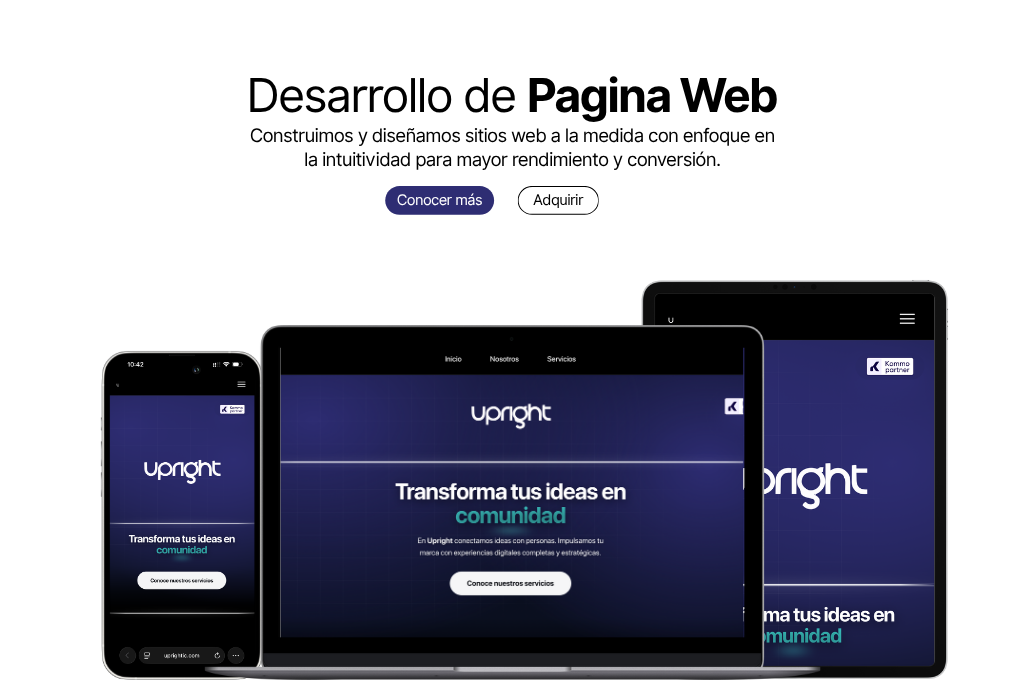
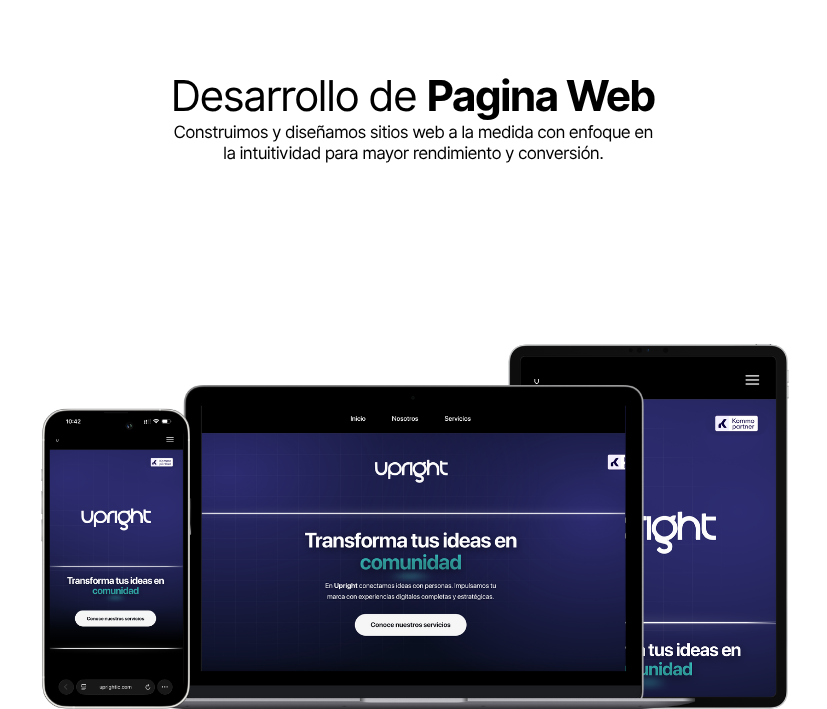
services section changes

Changed region(s): [[0.0302, 0.4015, 0.9674, 1.0], [0.2116, 0.0926, 0.8162, 0.3397], [0.5139, 0.2779, 0.5744, 0.3088]]

diff --git a/src/components/UI/OffersSection/styles.ts b/src/components/UI/OffersSection/styles.ts
@@ -22,13 +22,14 @@ export const Wrapper = styled.section`
     linear-gradient(180deg, var(--Background) 0%, var(--Background) 95%);
   color: var(--white);
   overflow: hidden;
-  padding-bottom: 20rem;
+  padding-bottom: 6rem;
 `;
 
 export const Inner = styled.div`
-  max-width: 1440px;
-  width: 90%;
+  max-width: 100%;
+  width: 100%;
   margin: 12.38rem auto 0;
+  padding: 0 0.75rem; /* outer gutter equals cards' gap */
 
   @media (max-width: 768px) {
     margin-top: 6.44rem;
@@ -69,57 +70,51 @@ export const Header = styled.header`
   }
 `;
 
-export const TextCtn = styled.div`
-  padding: 2rem;
-  width: 100%;
+export const ButtonsRow = styled.div`
+  position: absolute;
+  left: 50%;
+  top: 34%; 
+  transform: translate(-50%, -50%);
   display: flex;
-  flex-direction: column;
-  gap: 0.75rem;
-  margin-top: auto;
-  position: relative;
-  z-index: 3;
-  background: rgba(14, 1, 66, 0.72);
-  backdrop-filter: blur(12px);
-  border-top: 1px solid rgba(58, 193, 192, 0.25);
-
-  /* hidden by default (desktop) */
-  opacity: 0;
-  transform: translateY(20px);
-  transition: opacity 0.4s ease, transform 0.4s ease;
-
-  h2 {
-    font-size: 1.75rem;
-    font-weight: 500;
-    line-height: 1.6rem;
-    color: var(--white);
-  }
-
-  p {
-    color: rgba(242, 242, 242, 0.88);
-    font-size: 0.95rem;
-    font-weight: 400;
-    line-height: 1.45rem;
-  }
+  gap: 0.5rem;
+  z-index: 4;
 
   @media (max-width: 768px) {
-    /* always visible on mobile */
-    opacity: 1;
-    transform: none;
-    padding: 1.5rem;
-    h2 {
-      font-size: 1.5rem;
-    }
+    top: 36%;
   }
+`;
+
+export const ActionButton = styled.button<{ $variant: 'indigo' | 'gray' }>`
+  appearance: none;
+  border: none;
+  cursor: pointer;
+  padding: 0.8rem 1.25rem; 
+  border-radius: 999px;
+  font-size: 1rem;
+  font-weight: 600;
+  letter-spacing: 0.01em;
+  font-family: inherit; /* match site font */
+  transition: transform 0.15s ease, box-shadow 0.2s ease, opacity 0.2s ease;
+
+  color: ${({ $variant }) => ($variant === 'indigo' ? 'var(--white)' : 'var(--blue)')};
+  background: ${({ $variant }) => ($variant === 'indigo' ? 'var(--blue)' : 'var(--gray)')};
+  box-shadow: 0 10px 22px rgba(0,0,0,0.35);
+
+  &:hover { transform: translateY(-1px); opacity: 0.95; }
+  &:active { transform: translateY(0); opacity: 0.9; }
+  &:focus-visible { outline: 2px solid rgba(58,193,192,0.6); outline-offset: 2px; }
 `;
 
 export const Offers = styled.div`
   display: flex;
   align-items: stretch;
   justify-content: center;
-  gap: 2rem;
+  /* Minimal gutter between cards */
+  gap: 0.75rem;
 
   &:not(:first-child) {
-    margin-top: 2rem;
+    /* Match vertical gutter between rows */
+    margin-top: 0.75rem;
   }
 
   @media (max-width: 992px) {
@@ -132,9 +127,7 @@ export const OfferCard = styled.div`
   min-height: 26rem;
   border-radius: 0; /* remove rounded corners */
   border: 1px solid rgba(58, 193, 192, 0.18);
-  box-shadow:
-    0 18px 45px rgba(14, 1, 66, 0.45),
-    0 0 0 1px rgba(58, 193, 192, 0.05) inset;
+  box-shadow: none;
   display: flex;
   flex-direction: column;
   justify-content: flex-end;
@@ -146,23 +139,13 @@ export const OfferCard = styled.div`
       rgba(14, 1, 66, 0.6) 45%,
       rgba(10, 10, 10, 0.92) 100%
     );
-  cursor: pointer;
-  transition:
-    transform 0.35s cubic-bezier(0.22, 1, 0.36, 1),
-    box-shadow 0.35s cubic-bezier(0.22, 1, 0.36, 1),
-    border-color 0.25s ease;
+  cursor: default; /* no longer clickable */
+  transition: none; /* remove hover transition */
 
   &::before {
     content: '';
     position: absolute;
     inset: 0;
-    background: linear-gradient(
-      210deg,
-      rgba(58, 193, 192, 0.22) 0%,
-      rgba(46, 45, 115, 0.4) 40%,
-      rgba(14, 1, 66, 0.75) 80%,
-      rgba(10, 10, 10, 0.95) 100%
-    );
     z-index: 1;
   }
 
@@ -170,45 +153,19 @@ export const OfferCard = styled.div`
     content: '';
     position: absolute;
     inset: 0;
-    background:
-      radial-gradient(65% 65% at 80% 20%, rgba(58, 193, 192, 0.35), transparent 70%),
-      url(${grid_background.src}) center/cover no-repeat;
     mix-blend-mode: screen;
     opacity: 0.28;
     z-index: 2;
     transition: opacity 0.35s cubic-bezier(0.22, 1, 0.36, 1);
   }
 
-  /* hover reveal */
-  &:hover {
-    transform: translateY(-10px);
-    box-shadow:
-      0 30px 70px rgba(9, 188, 180, 0.35),
-      0 0 0 1px rgba(58, 193, 192, 0.3) inset;
-    border-color: rgba(58, 193, 192, 0.45);
-
-    &::after {
-      opacity: 0.55;
-    }
-
-    ${TextCtn} {
-      opacity: 1;
-      transform: translateY(0);
-      background: rgba(14, 1, 66, 0.85);
-      border-top-color: rgba(58, 193, 192, 0.6);
-    }
-  }
-
-  &:active {
-    transform: translateY(-6px) scale(0.995);
-  }
+  /* disable hover/active effects */
+  &:hover { transform: none; box-shadow: none; border-color: rgba(58, 193, 192, 0.18); }
+  &:active { transform: none; }
 
   &:focus-visible {
     outline: none;
-    box-shadow:
-      0 0 0 3px rgba(58, 193, 192, 0.55),
-      0 18px 45px rgba(14, 1, 66, 0.45),
-      0 0 0 1px rgba(58, 193, 192, 0.2) inset;
+    box-shadow: none;
   }
 
   @media (max-width: 768px) {
@@ -217,39 +174,9 @@ export const OfferCard = styled.div`
 `;
 
 export const CardImage = styled(Image)`
-  position: absolute !important;
-  inset: 0 !important;
-  width: 100% !important;
-  height: 100% !important;
-  object-fit: cover;
-  z-index: 0;
-`;
-
-export const PartnerBadge = styled.div`
-  position: absolute;
-  left: 50%;
-  transform: translateX(-50%);
-  display: flex;
-  align-items: center;
-  justify-content: center;
-  padding: 0.75rem 1.5rem;
-  margin: 8rem auto;
-  border-radius: 5%;
-  background: rgba(14, 1, 66, 0.75);
-  border: 1px solid var(--indigo);
-  backdrop-filter: blur(12px);
-  box-shadow: 0 18px 40px var(--blue);
-
-  img {
-    width: 240px;
-    height: auto;
-  }
-
-  @media (max-width: 768px) {
-    img {
-      width: 150px;
-    }
-  }
+  display: block;
+  height: auto;
+  width: auto;
 `;
 
 /* ---------- Modal for Offer details ---------- */

diff --git a/src/components/UI/OffersSection/index.tsx b/src/components/UI/OffersSection/index.tsx
@@ -7,9 +7,9 @@ import {
   Header,
   Offers,
   OfferCard,
-  TextCtn,
+  ButtonsRow,
+  ActionButton,
   CardImage,
-  PartnerBadge,
   ModalOverlay,
   ModalCard,
 } from './styles';
@@ -54,64 +54,49 @@ const OffersSection = () => {
           offers.slice(idx * 2, idx * 2 + 2)
         ).map((pair, index) => (
           <Offers key={`offers-row-${index}`}>
-            {pair.map((offer) => (
-              <OfferCard
-                key={offer.title}
-                role="button"
-                tabIndex={0}
-                onClick={() => {
-                  const t = offer.title.toLowerCase();
-                  if (/desarrollo/.test(t)) setOpen('web');
-                  else if (/dron/.test(t)) setOpen('drones');
-                  else if (/(google|ads|pauta)/.test(t)) setOpen('ads');
-                  else if (/automat/.test(t)) setOpen('automation');
-                  else if (/(lista|difusi[oó]n|whatsapp)/.test(t)) setOpen('broadcast');
-                  else if (/(optimización|plataformas)/.test(t)) setOpen('optimize');
-                  else if (/(comunicaci[oó]n|redes|social)/.test(t)) setOpen('communication');
-                  else if (/branding/.test(t)) setOpen('branding');
-                }}
-                onKeyDown={(e) => {
-                  if (e.key === 'Enter' || e.key === ' ') {
-                    e.preventDefault();
-                    const t = offer.title.toLowerCase();
-                    if (/desarrollo/.test(t)) setOpen('web');
-                    else if (/dron/.test(t)) setOpen('drones');
-                    else if (/(google|ads|pauta)/.test(t)) setOpen('ads');
-                    else if (/automat/.test(t)) setOpen('automation');
-                    else if (/(lista|difusi[oó]n|whatsapp)/.test(t)) setOpen('broadcast');
-                    else if (/(optimización|plataformas)/.test(t)) setOpen('optimize');
-                    else if (/(comunicaci[oó]n|redes|social)/.test(t)) setOpen('communication');
-                    else if (/branding/.test(t)) setOpen('branding');
-                  }
-                }}
-              >
-                <CardImage
-                  src={offer.illustration}
-                  alt={offer.title}
-                  fill
-                  sizes="(max-width: 768px) 100vw, (max-width: 1200px) 45vw, 580px"
-                  loading="lazy"
-                  placeholder="blur"
-                />
-                <TextCtn>
-                  <MaskText phrases={[offer.title]} tag="h2" />
-                  <p>{offer.details}</p>
-                </TextCtn>
-              </OfferCard>
-            ))}
+            {pair.map((offer) => {
+              const openForOffer = () => {
+                const t = offer.title.toLowerCase();
+                if (/desarrollo/.test(t)) setOpen('web');
+                else if (/dron/.test(t)) setOpen('drones');
+                else if (/(google|ads|pauta)/.test(t)) setOpen('ads');
+                else if (/automat/.test(t)) setOpen('automation');
+                else if (/(lista|difusi[oó]n|whatsapp)/.test(t)) setOpen('broadcast');
+                else if (/(optimización|plataformas)/.test(t)) setOpen('optimize');
+                else if (/(comunicaci[oó]n|redes|social)/.test(t)) setOpen('communication');
+                else if (/branding/.test(t)) setOpen('branding');
+              };
+
+              return (
+                <OfferCard key={offer.title}>
+                  <CardImage
+                    src={offer.illustration}
+                    alt={offer.title}
+                    loading="lazy"
+                    placeholder="blur"
+                  />
+                  <ButtonsRow>
+                    <ActionButton $variant="indigo" type="button" onClick={openForOffer}>
+                      Ver más
+                    </ActionButton>
+                    <ActionButton
+                      as="a"
+                      href="https://wa.me/message/BDRPYGZON5JOL1"
+                      target="_blank"
+                      rel="noopener noreferrer"
+                      $variant="gray"
+                    >
+                      Adquirir
+                    </ActionButton>
+                  </ButtonsRow>
+                </OfferCard>
+              );
+            })}
           </Offers>
         ))}
       </Inner>
 
-      <PartnerBadge>
-        <Image
-          src={badgeLight}
-          alt="Partner badge"
-          width={160}
-          height={160}
-          loading="lazy"
-        />
-      </PartnerBadge>
+      
       {open && (
         <ModalOverlay onClick={() => setOpen(null)}>
           <ModalCard onClick={(e) => e.stopPropagation()} role="dialog" aria-modal="true">

diff --git a/src/components/UI/OffersSection/constants.ts b/src/components/UI/OffersSection/constants.ts
@@ -1,13 +1,13 @@
-import service1 from '../../../../public/services/1_web.png';
-import service2 from '../../../../public/services/2_dron.png';
-import service3 from '../../../../public/services/3_meta.png';
-import service4 from '../../../../public/services/4_kommo.png';
-import service5 from '../../../../public/services/5.webp';
-import service6 from '../../../../public/services/6.jpg';
-import service7 from '../../../../public/services/7.webp';
-import service8 from '../../../../public/services/8.webp';
+import service1 from '../../../../public/services/1.png';
+import service2 from '../../../../public/services/2.png';
+import service3 from '../../../../public/services/3.png';
+import service4 from '../../../../public/services/4.png';
+import service5 from '../../../../public/services/5.png';
+import service6 from '../../../../public/services/6.png';
+import service7 from '../../../../public/services/7.png';
+import service8 from '../../../../public/services/8.png';
 import service9 from '../../../../public/services/9.png';
-import service10 from '../../../../public/services/10.jpg';
+import service10 from '../../../../public/services/10.png';
 
 // For desktop
 export const desktopHeaderPhrases = [

diff --git a/src/app/(home)/page.tsx b/src/app/(home)/page.tsx
@@ -16,7 +16,7 @@ export default function Home() {
         <Message />
       </section>
       <SectionDivider aria-hidden="true" />
-      <Featured />
+
       <SectionDivider aria-hidden="true" />
       <section id="nosotros" style={{ scrollMarginTop: "90px" }}>
         <FinancilaFreedom />
@@ -25,6 +25,10 @@ export default function Home() {
       <section id="servicios" style={{ scrollMarginTop: "90px" }}>
         <OffersSection />
       </section>
+      <SectionDivider aria-hidden="true" />
+
+      <Featured />
+      {/* Section Kommo */}
     </main>
   );
 }
